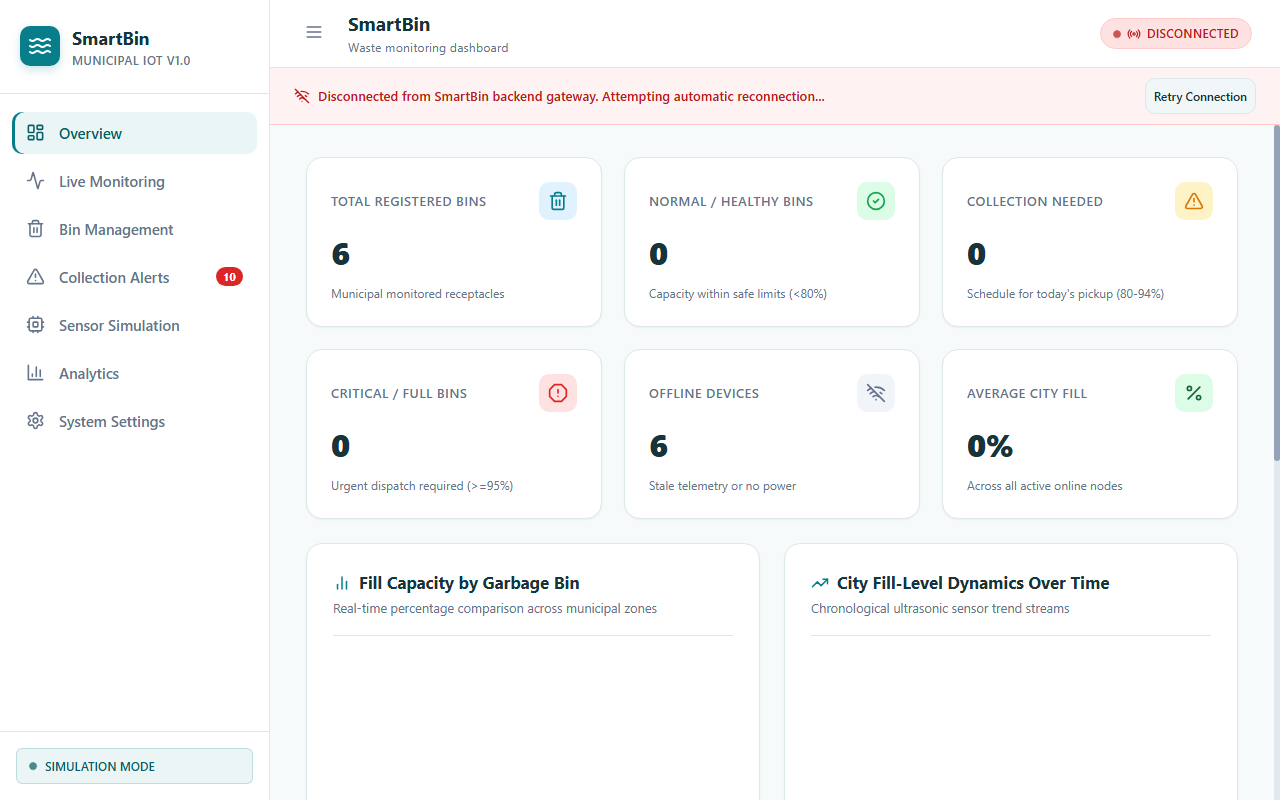
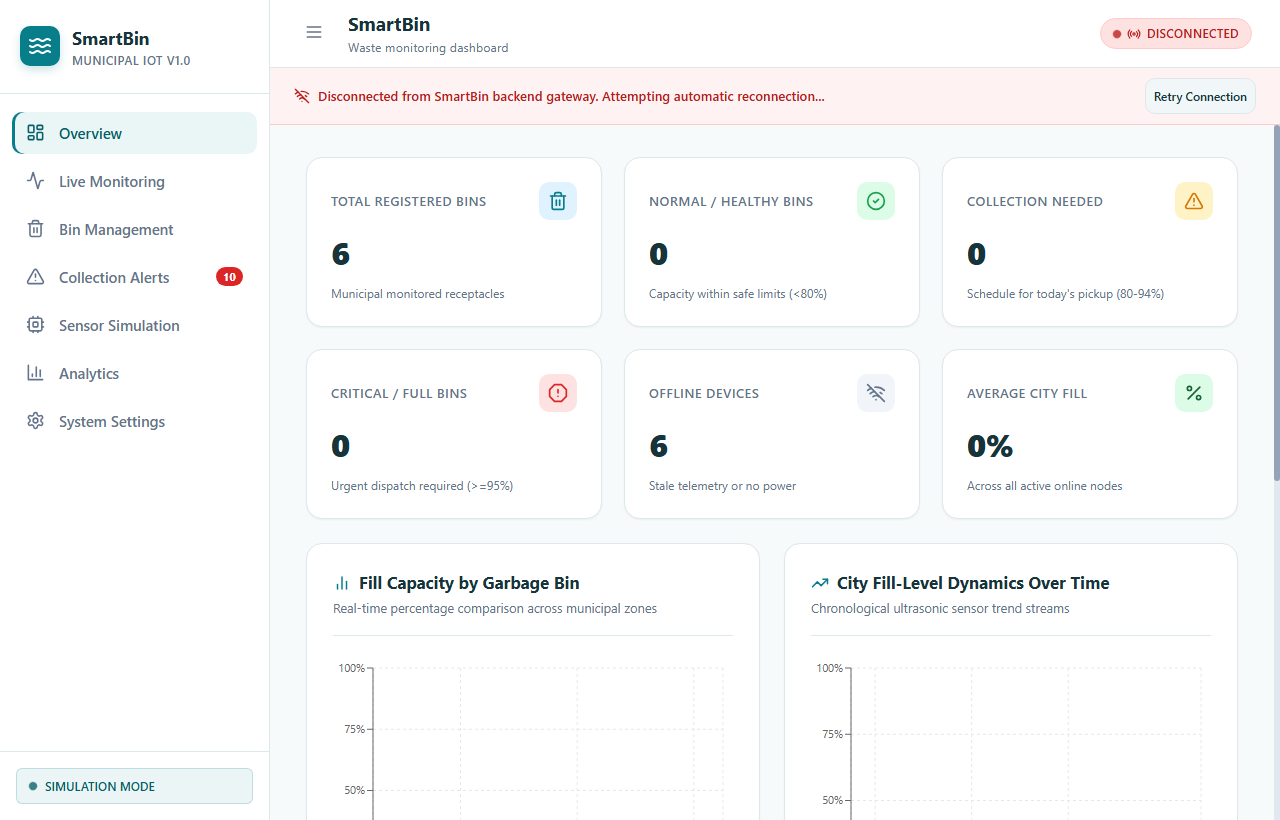
.

diff --git a/frontend/src/App.jsx b/frontend/src/App.jsx
@@ -16,7 +16,10 @@ import './styles/dashboard.css';
 import './styles/simulator.css';
 
 export default function App() {
-  const [activeView, setActiveView] = useState('overview');
+  const [activeView, setActiveView] = useState(() => {
+    const params = new URLSearchParams(window.location.search);
+    return params.get('view') || 'overview';
+  });
   const [isSidebarCollapsed, setIsSidebarCollapsed] = useState(false);
 
   const {
